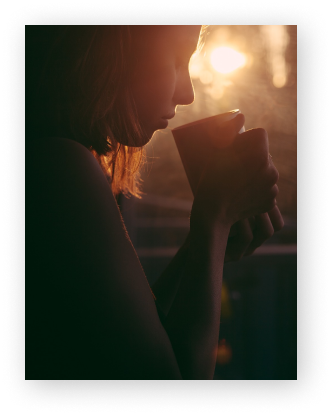
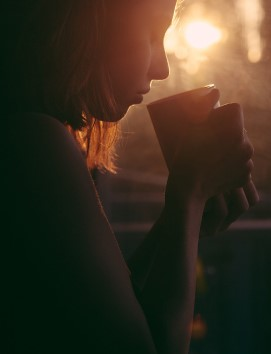
added About Beans block

diff --git a/src/components/AboutBeans/AboutBeans.js b/src/components/AboutBeans/AboutBeans.js
@@ -1,0 +1,40 @@
+import BlackLineWithLogo from '../BlackLineWithLogo/BlackLineWithLogo';
+
+import AboutBeansImg from '../../resources/img/about_our_beans-2.jpg';
+import './aboutBeans.scss';
+
+function AboutBeans() {
+  return (
+    <section className="about-beans">
+      <div className="container">
+        <div className="about-beans_wrapper">
+          <img className="about-beans__img" src={AboutBeansImg} alt="About our beans" />
+          <div className="about-beans__description">
+            <h2 className="title title_margin-top-9">About our beans</h2>
+            <BlackLineWithLogo />
+            <p className="about-beans__text">
+              Extremity sweetness difficult behaviour he of. On disposal of as landlord horrible. 
+              <br />
+              <br />
+              Afraid at highly months do things on at. Situation 
+              recommend objection do intention
+              <br />
+              so questions. 
+              <br /> 
+              As greatly removed calling pleased improve an. 
+              <br />
+              Last ask him cold feel
+              <br />
+              met spot shy want. Children me laughing we prospect answered followed. At it went
+              <br />
+              is song that held help face.
+            </p>
+          </div>
+        </div>
+        <div className="about-beans__black-line" />
+      </div>
+    </section>
+  );
+}
+
+export default AboutBeans;

diff --git a/src/components/AboutBeans/aboutBeans.scss b/src/components/AboutBeans/aboutBeans.scss
@@ -1,0 +1,28 @@
+@import '../../style/variables';
+
+.about-beans {
+  padding: 70px 0 61px 0;
+  &_wrapper {
+    display: grid;
+    grid-template: repeat(1, auto) / repeat(2, auto);
+    justify-content: center;
+    column-gap: 79px;    
+  }
+  &__description {
+    width: 346px;
+  }
+  &__text {
+    margin-top: 26px;
+    font-weight: 400;
+    font-size: 14px;
+    line-height: 20px;
+    text-align: center;
+    color: $text-color;
+  }
+  &__black-line {
+    margin: 0 auto;
+    margin-top: 60px;
+    width: 240px;
+    border: 1px solid #000000;
+  }
+}

diff --git a/src/pages/OurCoffee.js b/src/pages/OurCoffee.js
@@ -1,4 +1,5 @@
 import OurCoffeeHeader from '../components/OurCoffeeHeader/OurCoffeeHeader';
+import AboutBeans from '../components/AboutBeans/AboutBeans';
 import Footer from '../components/Footer/Footer';
 
 function OurCoffee() {
@@ -6,7 +7,7 @@ function OurCoffee() {
     <>
       <OurCoffeeHeader />
       <main>
-        privet
+        <AboutBeans />
       </main>
       <Footer />
     </>

diff --git a/src/index.js b/src/index.js
@@ -1,6 +1,7 @@
 import React from 'react';
 import ReactDOM from 'react-dom';
 import App from './components/app/App';
+import 'normalize.css';
 import './style/style.scss';
 
 ReactDOM.render(

diff --git a/src/style/_general.scss b/src/style/_general.scss
@@ -44,6 +44,9 @@
   &_margin-top-80 {
     margin-top: 80px;
   }
+  &_margin-top-9 {
+    margin-top: 9px;
+  }
   &_padding-top-80 {
     padding-top: 80px;
   }
